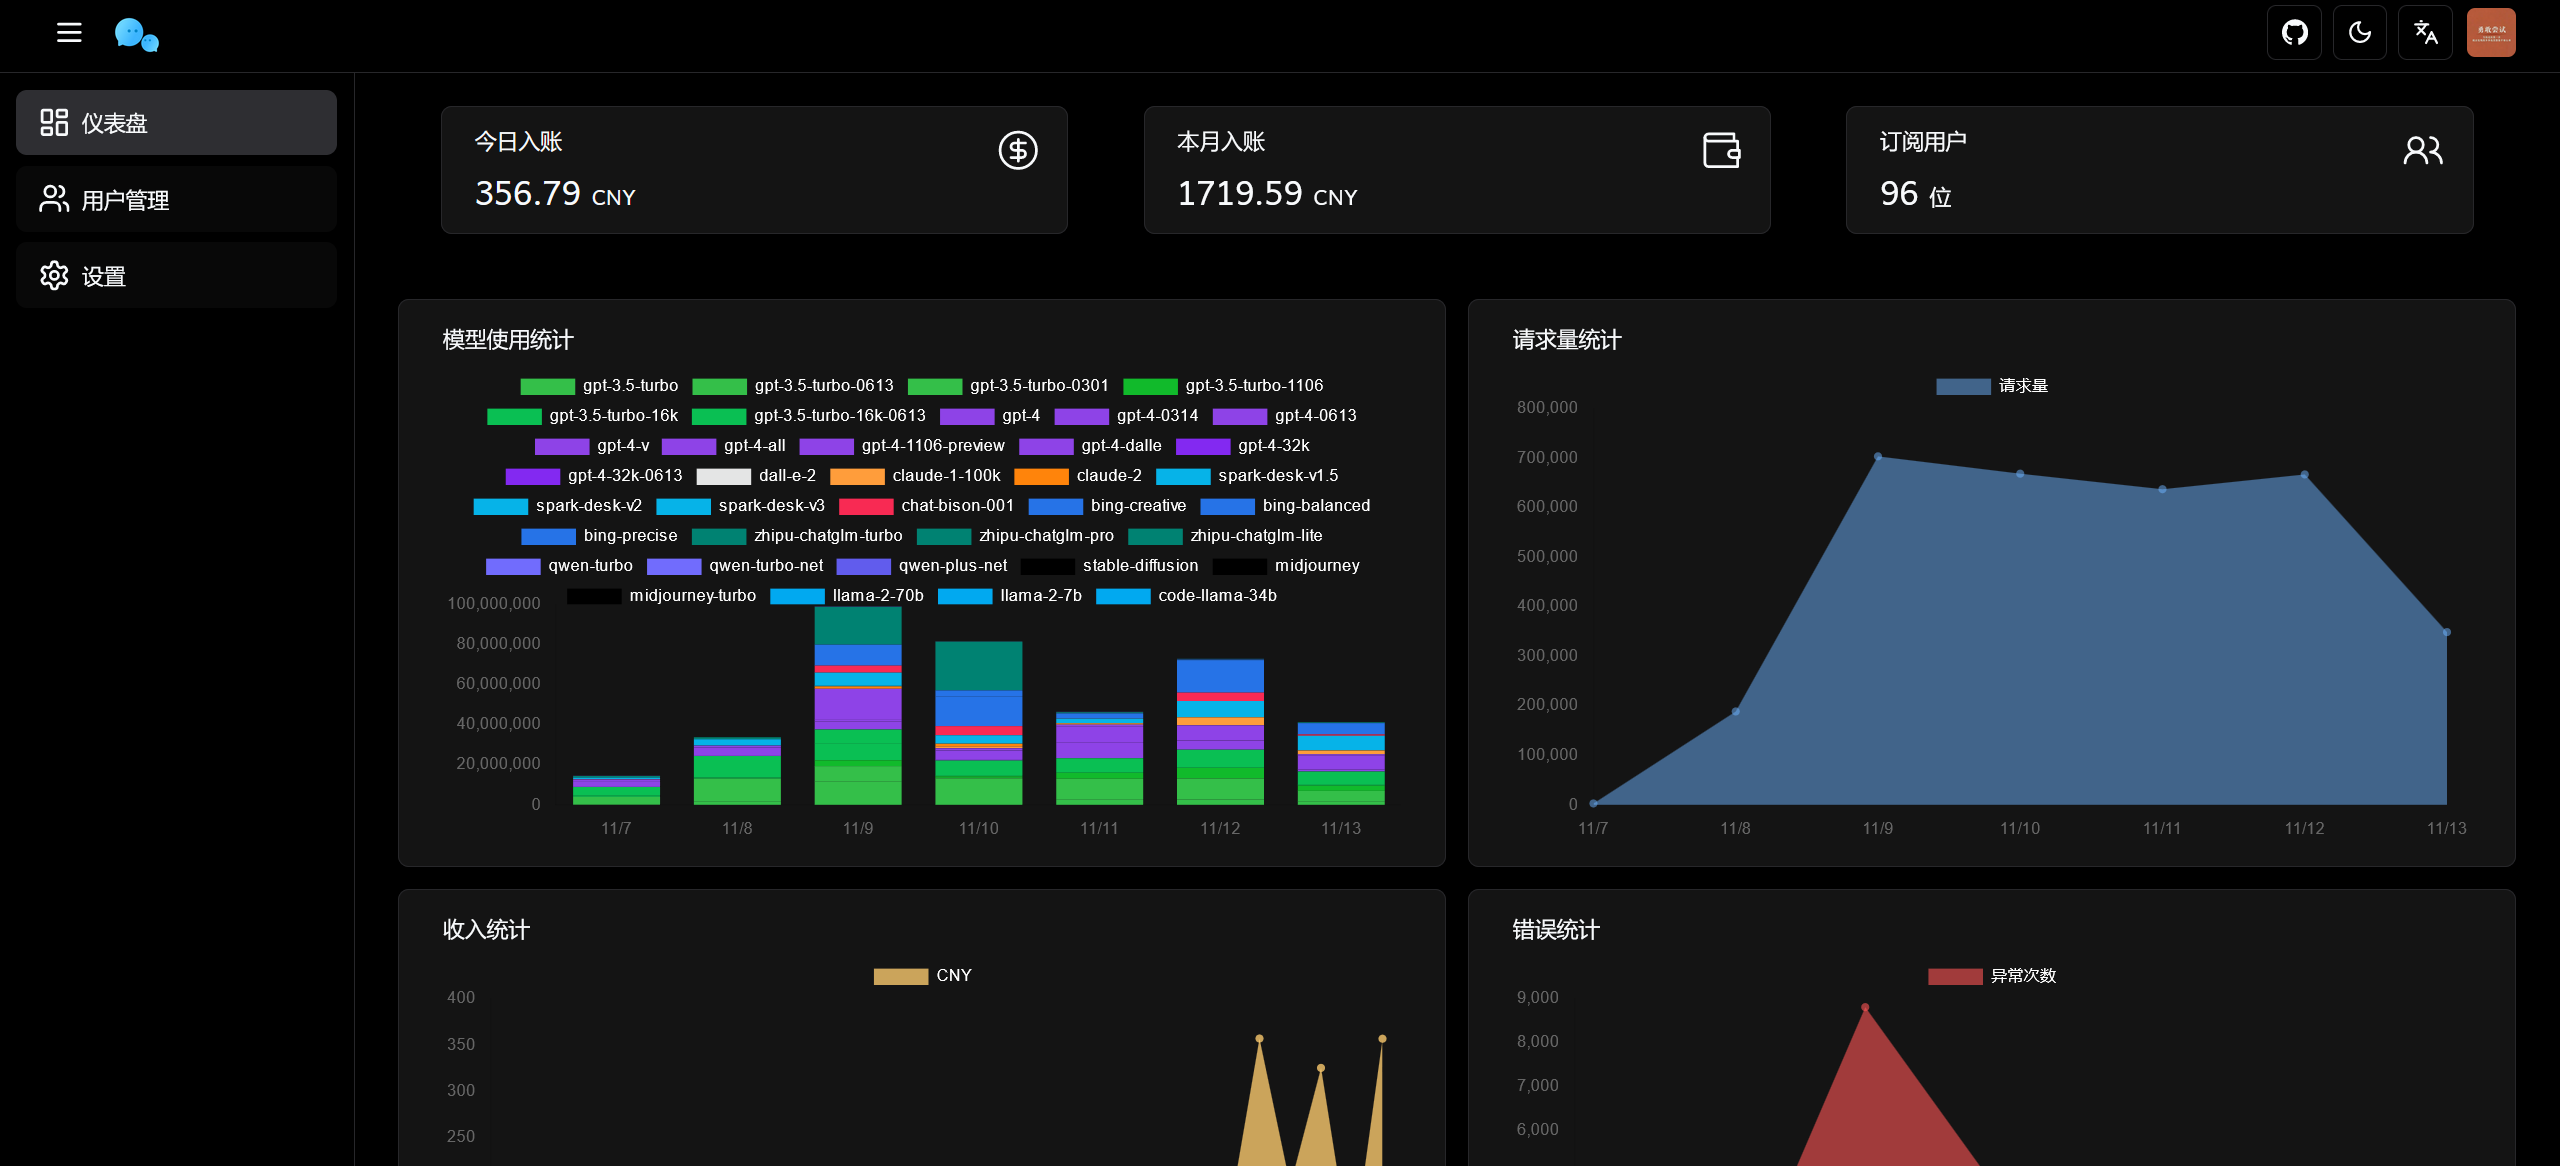
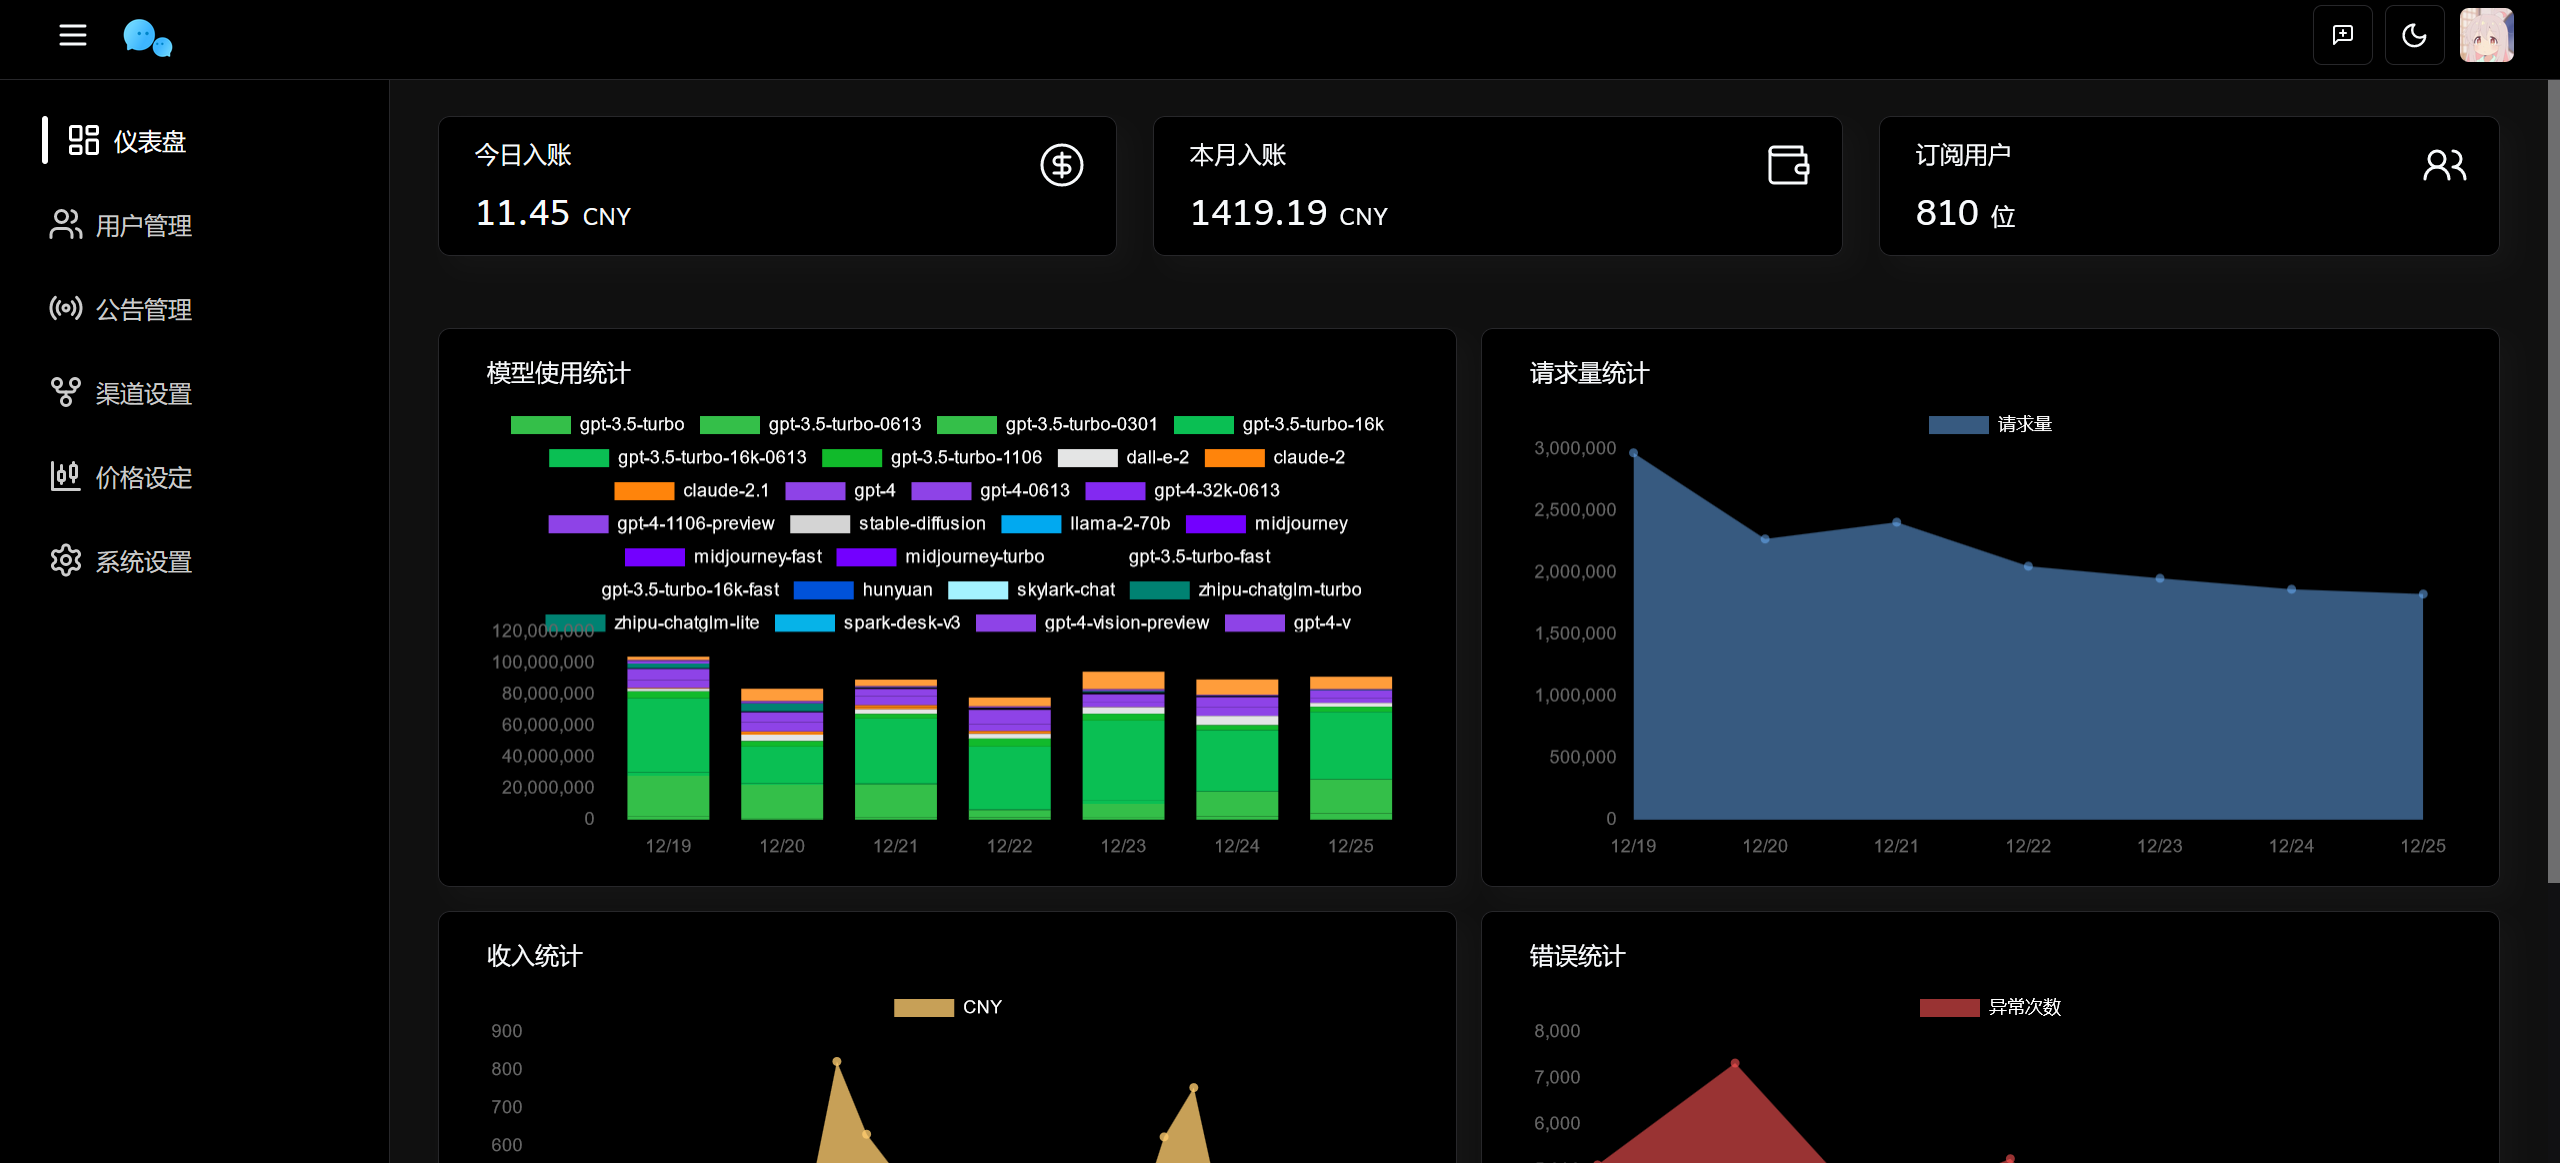
update screenshot

diff --git a/README.md b/README.md
@@ -59,7 +59,8 @@
     - ⚡ Billing system (support anonymous billing, billing by number of times, Token billing, etc.)
 20. 📂 文件上传功能 (支持 pdf, docx, pptx, xlsx, 音频, 图片等)
     - 📂 File upload function (support pdf, docx, pptx, xlsx, audio, images, etc.)
-
+21. 🥪 All in one (支持 smtp 发件，用户管理等功能)
+    - 🥪 All in one (supports smtp sending, user management, etc.)
 
 
 ## 🔨 模型 | Models
@@ -90,6 +91,8 @@
 ![shop](/screenshot/shop.png)
 ![subscription](/screenshot/subscription.png)
 ![admin](/screenshot/admin.png)
+![channel](/screenshot/channel.png)
+![charge](/screenshot/charge.png)
 
 
 ## 📦 部署 | Deploy
